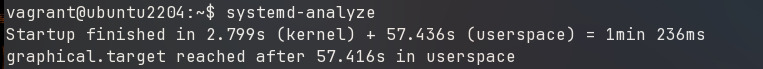
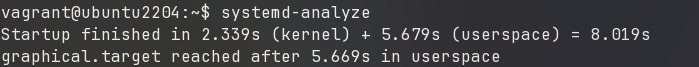
updates

Changed region(s): [[0.0, 0.0, 0.9313, 1.0]]

diff --git a/LAB/Experiment_1/README.md b/LAB/Experiment_1/README.md
@@ -17,7 +17,7 @@
 2 days ago
 
 Add Experiment 2
- - Download Vagrantfile of required VM OS using `vagrant init hashicorp/bionic64`, run `vagrant up` to start up the VM and `vagrant ssh` to access the VM terminal.
+ - Download Vagrantfile of required VM OS using `vagrant init generic/ubuntu2204`, run `vagrant up --provider=libvirt` to start up the VM and `vagrant ssh` to access the VM terminal.
 5 days ago
 
 Restructure labfile and Add theory files
@@ -35,18 +35,18 @@ Restructure labfile and Add theory files
 #### **Observations**
 **1. Storage Utilization:** The disk usage for the VM.
 ```PS
-VBoxManage showmediuminfo <path/to/virtualdrive>
+sudo virsh domblkinfo Experiment1_default vda --human
 ```
 ![](./vm-size.jpeg)
   
-> The VM installation consumed approximately **1773 MB** of disk space to store the Guest OS and virtual disk.
+> The VM installation consumed approximately **702.879 MB** of disk space to store the Guest OS and virtual disk.
 
 **2. Boot Performance:** The startup time required for the Virtual Machine to boot.
 ```bash
 systemd-analyze
 ```
 ![](./vm-boot-time.jpeg)
-> The VM took **27.049 seconds** to fully boot (Kernel: 6.634s + Userspace: 20.414s), demonstrating high startup latency.
+> The VM took **8.019 seconds** to fully boot (Kernel: 2.339s + Userspace: 5.679s), demonstrating high startup latency.
 
 **3. Memory Usage:** Amount of RAM resources allocated to and used by the Guest OS.
 
@@ -55,7 +55,7 @@ free -h
 ```
 ![](./vm-memory-usage.jpeg)
 
-> The VM reserved **985 MB** of total RAM from the host, with *73 MB* actively used and 670 MB used up in buffers/cache.
+> The VM reserved **1.9Gb** of total RAM from the host, with *166 MB* actively used and 304 MB used up in buffers/cache.
 
 ### **Part B: Containers**
 
@@ -77,7 +77,7 @@ docker images
 
 ![](./docker-images.jpeg)
 
-> The Nginx container image requires only **161 MB**.
+> The Nginx container image requires only **65.7MB**.
 
 **2. Boot Performance**
 Measurement of the time required to start the containerized application.
@@ -87,7 +87,7 @@ time docker run -d -p 8080:80 --name nginx-container nginx
 ```
 ![](./docker-time-run.jpeg)
 
-> The container started in **0.428 seconds**.
+> The container started in **0.411 seconds**.
 
 **3. Memory Allocation**
 Real-time monitoring of the container's resource consumption.
@@ -97,13 +97,6 @@ docker stats
 ```
 ![](./docker-stats.jpeg)
 
-> The running container uses **13.14 MiB** of RAM.
+> The running container uses **13.11 MiB** of RAM.
 
-### **Comparison**
 
-| Metric | Virtual Machine | Container | Difference |
-| :--- | :--- | :--- | :--- |
-| **Disk Usage** | **~1.8 GB** | **161 MB** | Containers are *smaller* because they do not require a full Guest OS copy. |
-| **Boot Time** | **27.05s** | **0.43s**  | Containers start *faster* by leveraging the already-running Host Kernel. |
-| **Memory** | **~985 MB** Reserved / *73 MB* Used | **13.14 MB** Used | VMs reserve a fixed block of RAM; Containers use only what the process needs dynamically. |
-| **Architecture** | **Hardware Virtualization** (Guest OS) | **OS Virtualization** (Shared Kernel) | VMs run a full isolated OS; Containers run as isolated processes on the Host OS. |
